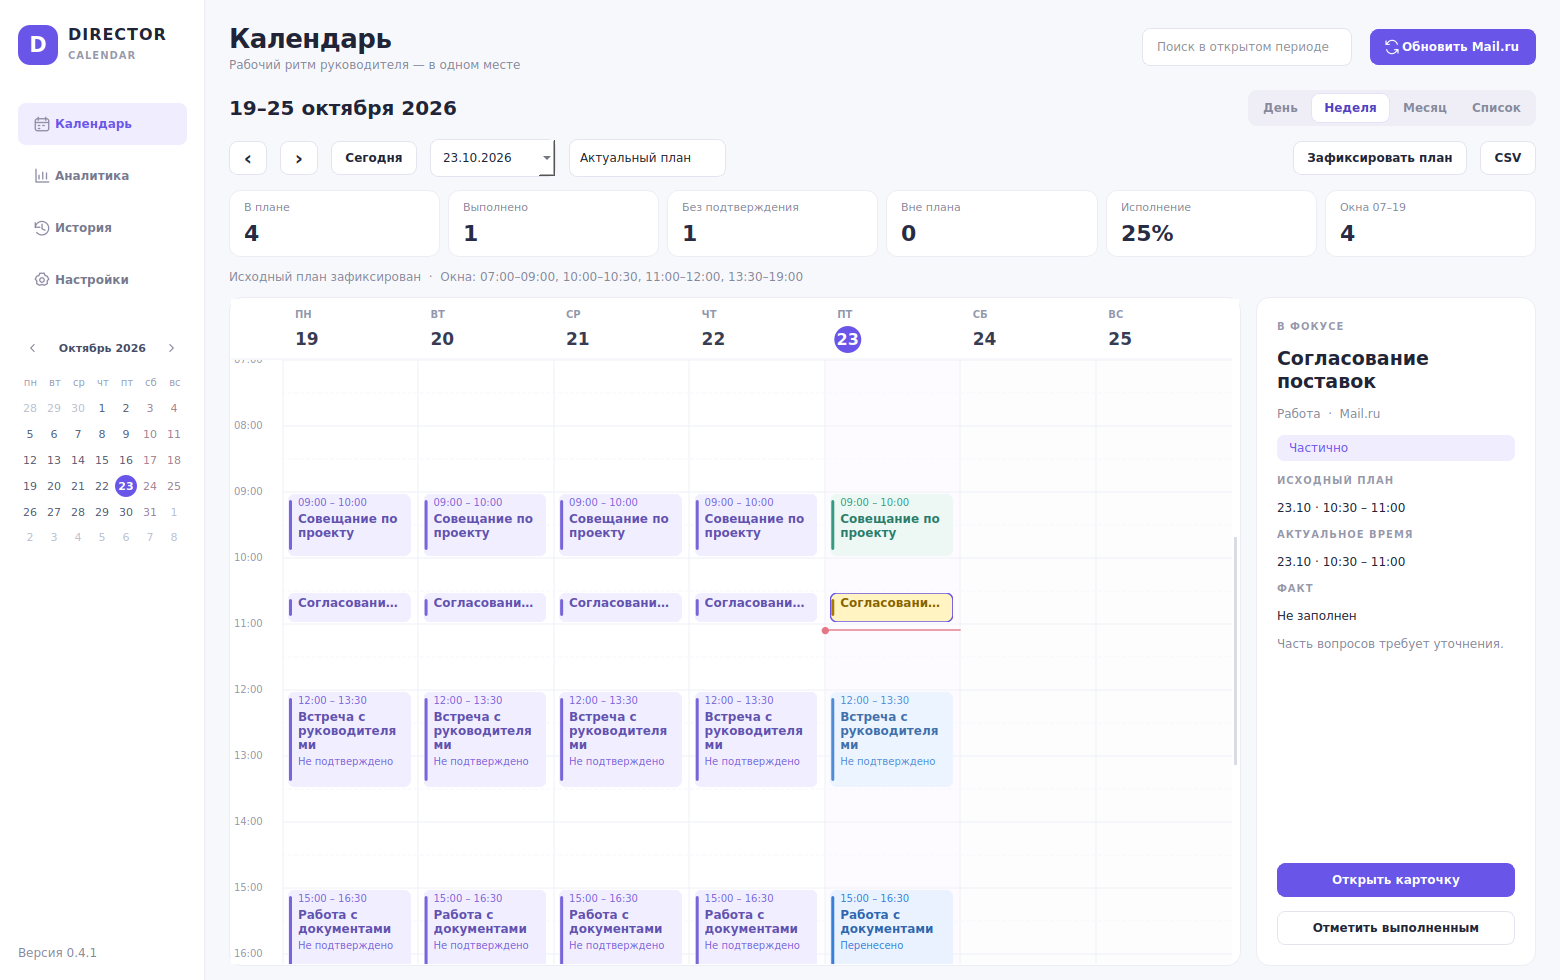
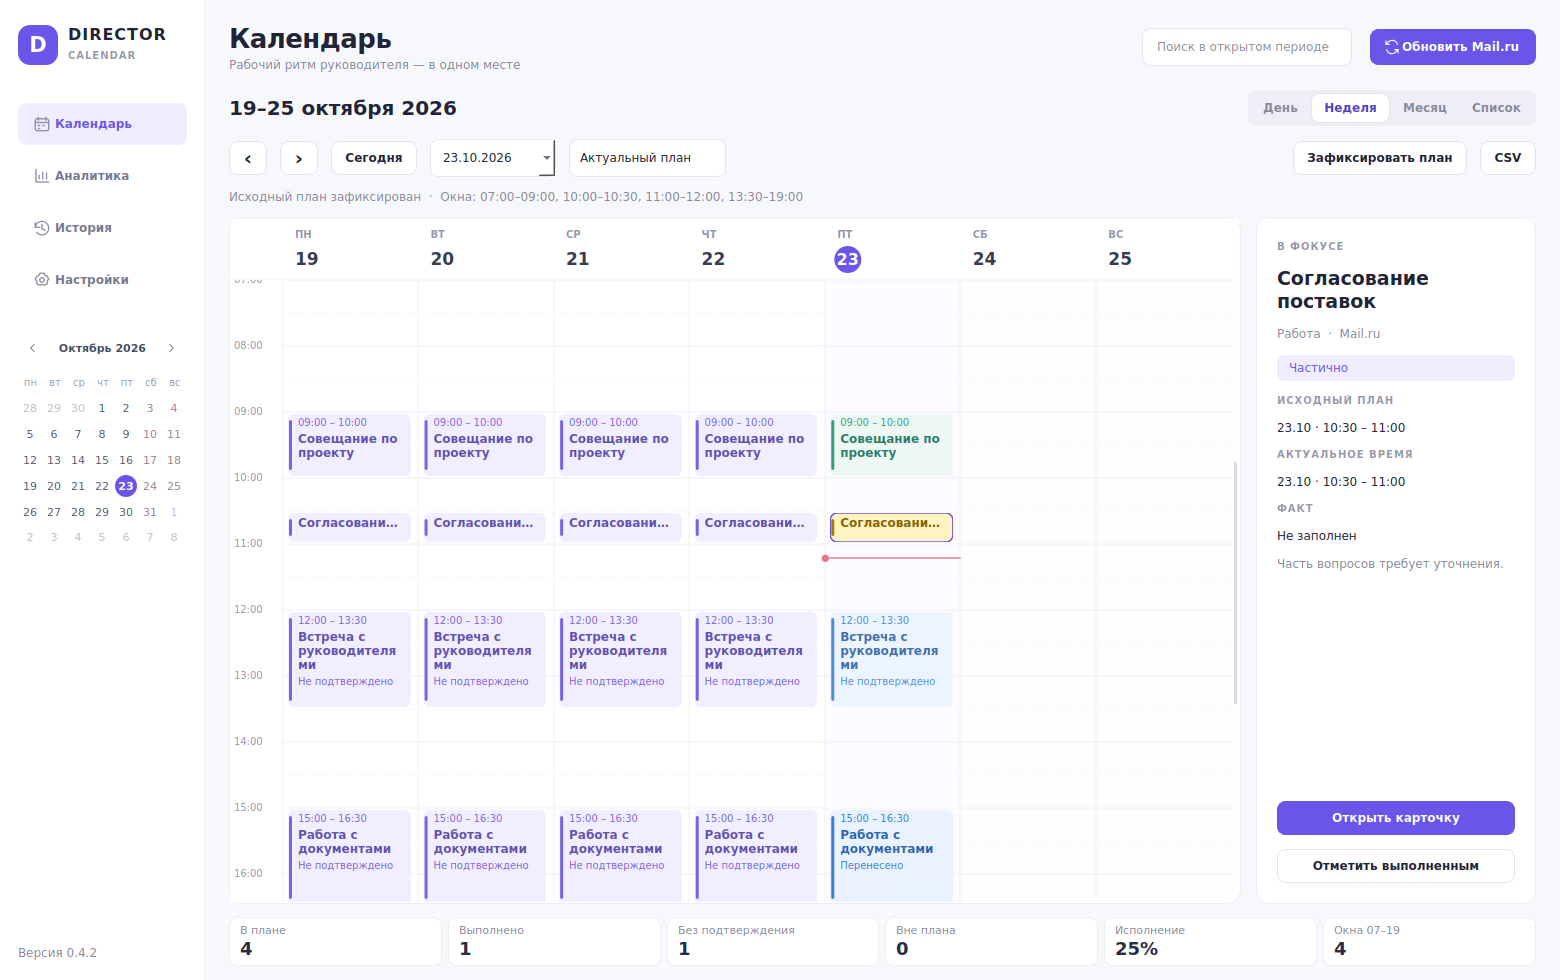
Move compact daily metrics below the calendar (v0.4.2)
Place all six daily cards after the calendar and inspector row. Reduce card height from 67 to 49 pixels with smaller padding, number size and spacing. Refresh documentation and screenshot.

Validation: 6 GUI smoke tests, Ruff F checks, all four views at 1560x980, 1050x720 and 1000x650, label fit and date/status updates, visual review.

[skip ci]

diff --git a/director_control/ui.py b/director_control/ui.py
@@ -155,7 +155,8 @@ class StatCard(QFrame):
         super().__init__()
         self.setObjectName("Metric")
         v = QVBoxLayout(self)
-        v.setContentsMargins(14, 10, 14, 10)
+        v.setContentsMargins(10, 6, 10, 6)
+        v.setSpacing(1)
         title = QLabel(name)
         title.setObjectName("CardTitle")
         self.value = QLabel("—")
@@ -221,7 +222,7 @@ class MainWindow(QMainWindow):
         self.mini.clicked.connect(lambda day: self.date_input.setDate(day))
         side.addWidget(self.mini)
         side.addStretch()
-        side.addWidget(plain_label("Версия 0.4.1", "Muted"))
+        side.addWidget(plain_label("Версия 0.4.2", "Muted"))
         shell.addWidget(self.sidebar)
         workspace = QWidget()
         workspace.setObjectName("Workspace")
@@ -343,13 +344,6 @@ class MainWindow(QMainWindow):
         toolbar.addWidget(self.button("Зафиксировать план", self.freeze))
         toolbar.addWidget(self.button("CSV", self.export))
         v.addLayout(toolbar)
-        cards = QHBoxLayout()
-        cards.setSpacing(8)
-        self.cards = {name: StatCard(label) for name, label in (("planned", "В плане"), ("done", "Выполнено"),
-            ("pending", "Без подтверждения"), ("unplanned", "Вне плана"), ("rate", "Исполнение"), ("gaps", "Окна 07–19"))}
-        for card in self.cards.values():
-            cards.addWidget(card, 1)
-        v.addLayout(cards)
         self.freeze_info = plain_label("", "Muted")
         self.freeze_info.setWordWrap(True)
         v.addWidget(self.freeze_info)
@@ -389,6 +383,13 @@ class MainWindow(QMainWindow):
         self.inspector.done_requested.connect(self.mark_done)
         body.addWidget(self.inspector)
         v.addLayout(body, 1)
+        cards = QHBoxLayout()
+        cards.setSpacing(6)
+        self.cards = {name: StatCard(label) for name, label in (("planned", "В плане"), ("done", "Выполнено"),
+            ("pending", "Без подтверждения"), ("unplanned", "Вне плана"), ("rate", "Исполнение"), ("gaps", "Окна 07–19"))}
+        for card in self.cards.values():
+            cards.addWidget(card, 1)
+        v.addLayout(cards)
         self.tabs.addTab(page, "Календарь")
 
     def set_date(self, day):

diff --git a/director_control/theme.py b/director_control/theme.py
@@ -26,9 +26,9 @@ QLabel#SectionTitle { font-size: 15px; font-weight: 650; }
 QLabel#EventTitle { font-size: 19px; font-weight: 700; }
 QLabel#StatusPill { color: #6956E8; background: #F0EDFF; border-radius: 7px; padding: 6px 9px; }
 QFrame#Surface, QFrame#Inspector { background: white; border: 1px solid #ECECF4; border-radius: 14px; }
-QFrame#Metric { background: white; border: 1px solid #ECECF4; border-radius: 11px; }
+QFrame#Metric { background: white; border: 1px solid #ECECF4; border-radius: 8px; }
 QLabel#CardTitle { color: #85889B; font-size: 11px; }
-QLabel#CardValue { color: #272C44; font-size: 22px; font-weight: 700; }
+QLabel#CardValue { color: #272C44; font-size: 18px; font-weight: 700; }
 QPushButton { background: white; border: 1px solid #E3E4EF; border-radius: 8px; padding: 9px 13px; font-weight: 600; }
 QPushButton:hover { background: #F6F4FF; border-color: #CCC5FA; }
 QPushButton:pressed { background: #EBE6FF; }

diff --git a/director_control/__init__.py b/director_control/__init__.py
@@ -1,3 +1,3 @@
 """Director Control — local plan/fact desktop prototype."""
 
-__version__ = "0.4.1"
+__version__ = "0.4.2"

diff --git a/README.md b/README.md
@@ -1,4 +1,6 @@
-# Director Calendar — версия 0.4.1
+# Director Calendar — версия 0.4.2
+
+Версия 0.4.2: показатели «В плане», «Выполнено», «Без подтверждения», «Вне плана», «Исполнение» и «Окна 07–19» перенесены под календарь. Уменьшены отступы, размер чисел и промежутки между карточками; для расписания остаётся больше высоты.
 
 Версия 0.4.1: убраны подписи «Источник Mail.ru», «ПЛАН / ФАКТ» и слоган в боковой панели, подсказки и дублирующая кнопка «Открыть карточку» под календарём. Карточка по-прежнему открывается двойным щелчком; кнопка в правой панели выбранного события сохранена. Сообщения обновления Mail.ru появляются под заголовком только при синхронизации или ошибке; постоянная подсказка о подключении снизу удалена.
 
@@ -92,7 +94,7 @@ py -3.13 -m venv .venv
 - События создаются, переносятся и удаляются в Mail.ru. В приложении карточка существующего события открывает учёт категории, факта, статуса и комментария; название и актуальный интервал доступны только для чтения.
 - Поиск фильтрует события **только открытого периода** по названию, категории и комментарию. Единственный источник расписания — Mail.ru.
 - Ссылка «+N событий» в месяце открывает список выбранного дня. Мини-календарь, стрелки и кнопка **Сегодня** помогают перемещаться по датам.
-- Показатели над календарём относятся к выбранному дню. Аналитика дополнена сравнением плановых и подтверждённых минут по категориям.
+- Компактные показатели под календарём относятся к выбранному дню. Аналитика дополнена сравнением плановых и подтверждённых минут по категориям.
 - На небольшом окне второстепенная панель скрывается и временная сетка становится плотнее. Окно при первом открытии подбирается под доступную область экрана.
 
 Данные, параметры подключения, пароль в хранилище Windows и существующий исходный план сохраняются. Новая схема БД и дополнительные зависимости для редизайна не нужны.
